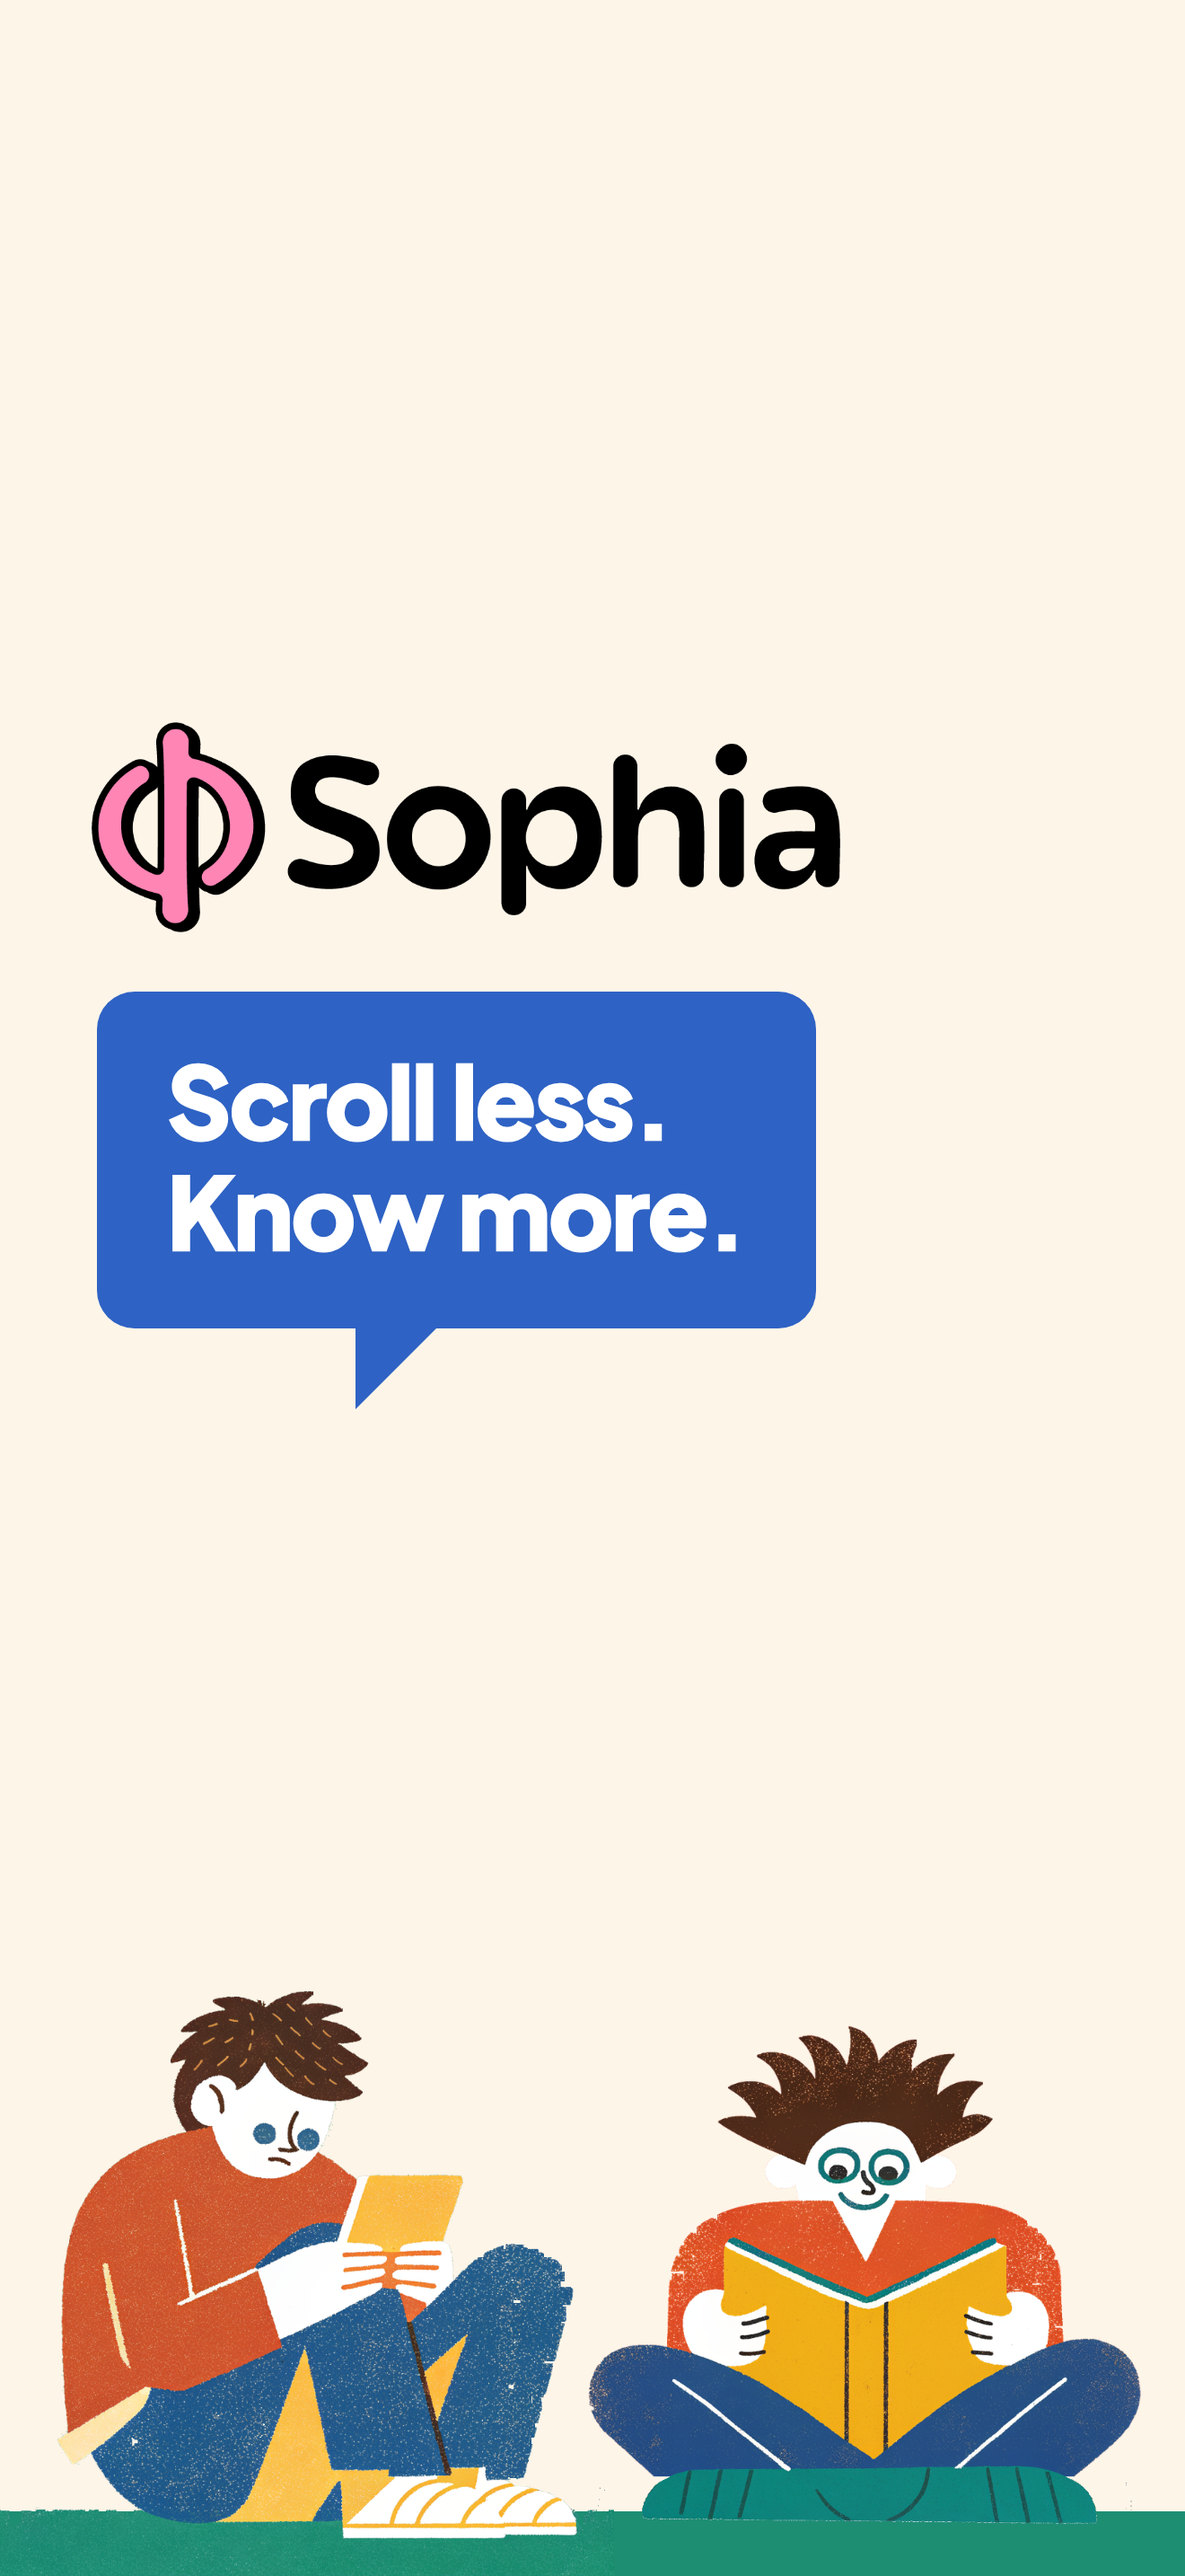
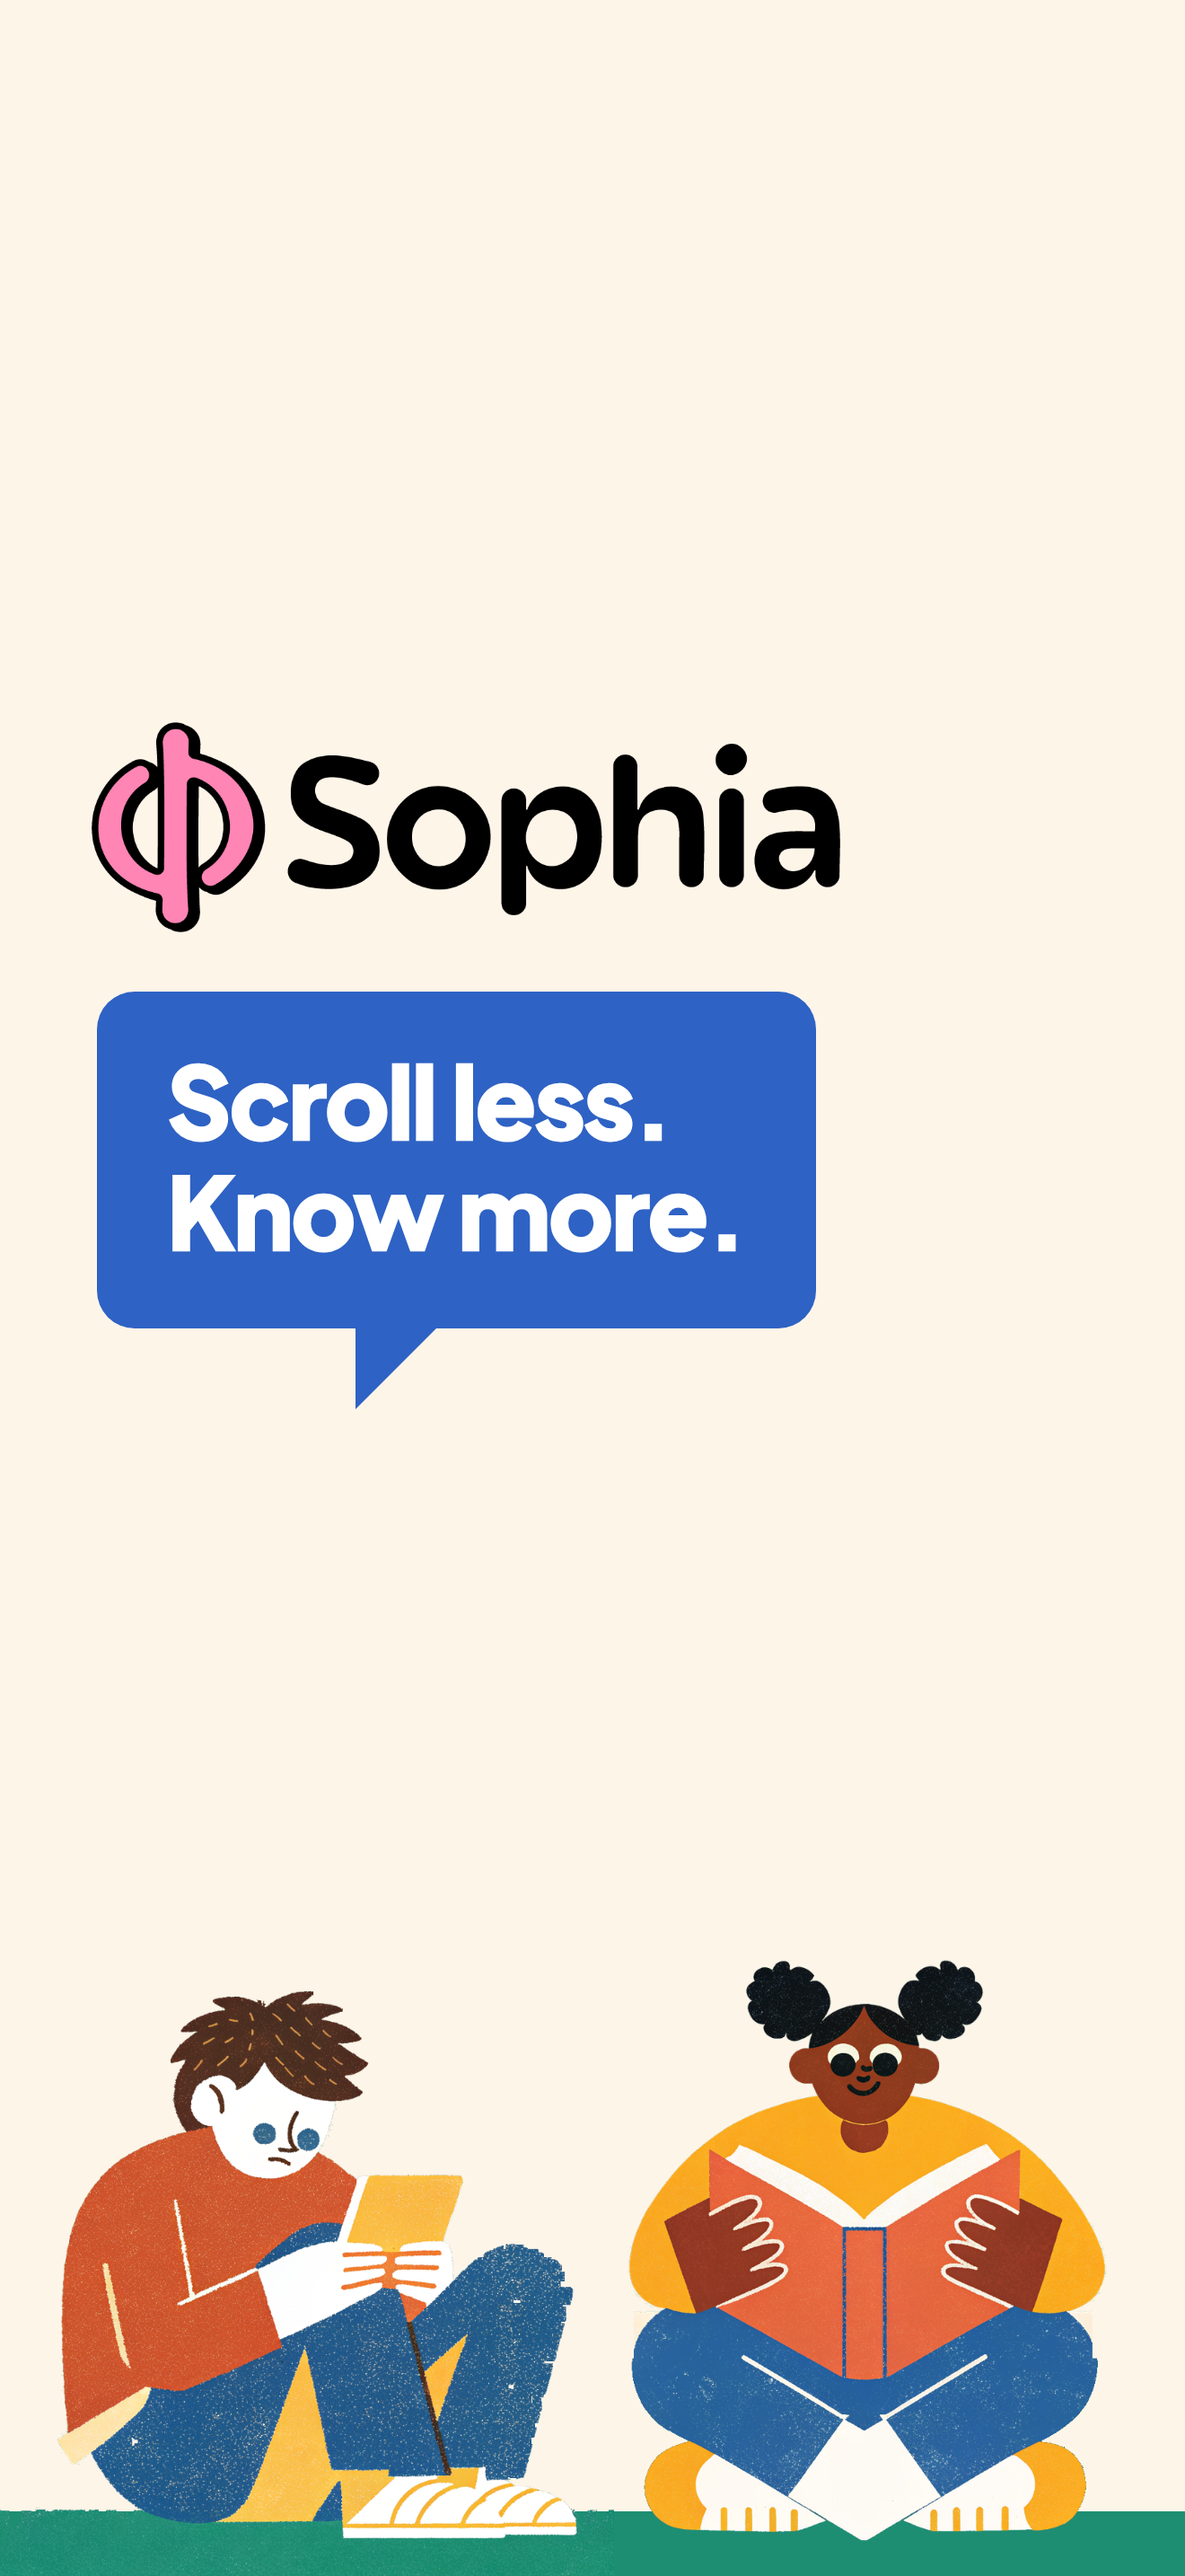
Captures App Store, showcase : une fille qui lit pour l'« apres »
Le garcon voute sur son telephone a gauche, une fille qui lit a droite,
tous deux sur le meme sol vert en bas de la page 1.

Claude-Session: https://claude.ai/code/session_01Yb4eBsmKHAU4mkJzSv6usd

Changed region(s): [[0.497, 0.7448, 0.9629, 0.993]]

diff --git a/appstore/screenshots/src/pano.js b/appstore/screenshots/src/pano.js
@@ -201,10 +201,11 @@ const PANOS = {
       screen: s, cx: mid(i), cy: 232 + (956 * 0.78 + 21) / 2, s: 0.78,
       frame: i === 1 ? "#cdd9f5" : "#2e62c4", band: i === 1 ? "#e9effb" : "#dbe5f8" })),
     people: [
-      // opening panel: logo, bubble, and the before / after boy sitting on the bottom edge, both on
+      // opening panel: logo, bubble, and the before / after pair (a boy slumped over his phone, a girl reading)
+      // sitting on the bottom edge, both on
       // the same green floor (the band in `extras`, the colour of the "before" drawing's own floor)
       { name: "boy_before", x: 112, b: 956, h: 232, z: 1 },
-      { name: "boy_after", x: 322, b: 938, h: 200, z: 1 },
+      { name: "girl_after", x: 322, b: 943, h: 216, z: 1 },
       { name: "trophy", x: P(4) + 220, b: 1000, h: 185 },
       { name: "phone_away", x: P(7) + 372, b: 975, h: 215, flip: true },
       { name: "idea", x: P(8) + 330, b: 990, h: 240, flip: true },

diff --git a/appstore/screenshots/people.py b/appstore/screenshots/people.py
@@ -45,11 +45,12 @@ PROPS = {
     "prop_globe": "A desk globe of the Earth on a stand.",
     "prop_mask": "A pair of theatre masks, comedy and tragedy.",
 }
-# Before / after for the opening panel: the same teenager slumped over a phone, then reading.
+# Before / after for the opening panel: a boy slumped over a phone, a girl reading.
 # The model draws a floor whatever the prompt says, so the prompt asks for a cream wall and a
 # green floor strip: the wall is cut out by colour (chroma key on the top corners, which keeps
 # the cream and white parts of the figure) and the two floors line up along the panel's bottom
-# edge. Recraft caps prompts at 1000 characters. Several takes were made and one pair kept.
+# edge. Recraft caps prompts at 1000 characters. Several takes were made and one pair kept; the
+# girl's own floor was then removed by hand so both sit on the band drawn in src/pano.js.
 BOY = ("a teenage boy with pale cream skin, messy straight dark brown hair with spiky tufts, coral red sweater, "
        "navy blue trousers, cream sneakers with saffron stripes")
 SCENE_STYLE = ("Whole figure visible, centred. Flat poster illustration, paper-cut shapes, palette of navy blue, "
@@ -57,7 +58,7 @@ SCENE_STYLE = ("Whole figure visible, centred. Flat poster illustration, paper-c
                "background, a thin flat green floor strip along the bottom edge, no text, no outlines, no furniture.")
 SCENES = {
     "boy_before": f"Full-body drawing of {BOY}, sitting slumped on the floor with knees up, back hunched, head down, staring at a smartphone held in both hands, tired half-closed eyes, sad bored expression. " + SCENE_STYLE,
-    "boy_after": f"Full-body drawing of {BOY}, sitting upright cross-legged on the floor, reading an open saffron book that rests in his lap, both hands on the book at chest height, arms down, eyes looking down at the pages, absorbed, happy smile. " + SCENE_STYLE,
+    "girl_after": "Full-body drawing of a teenage girl with warm brown skin, dark curly hair in two puffs, saffron yellow sweater, navy blue trousers, cream sneakers, sitting upright cross-legged on the floor, reading an open coral red book that rests in her lap, both hands on the book, arms down, eyes looking down at the pages, absorbed, happy smile. " + SCENE_STYLE,
 }
 SCENE_COLORS = COLORS[:4] + [[92, 58, 38], [38, 150, 140]]
 
